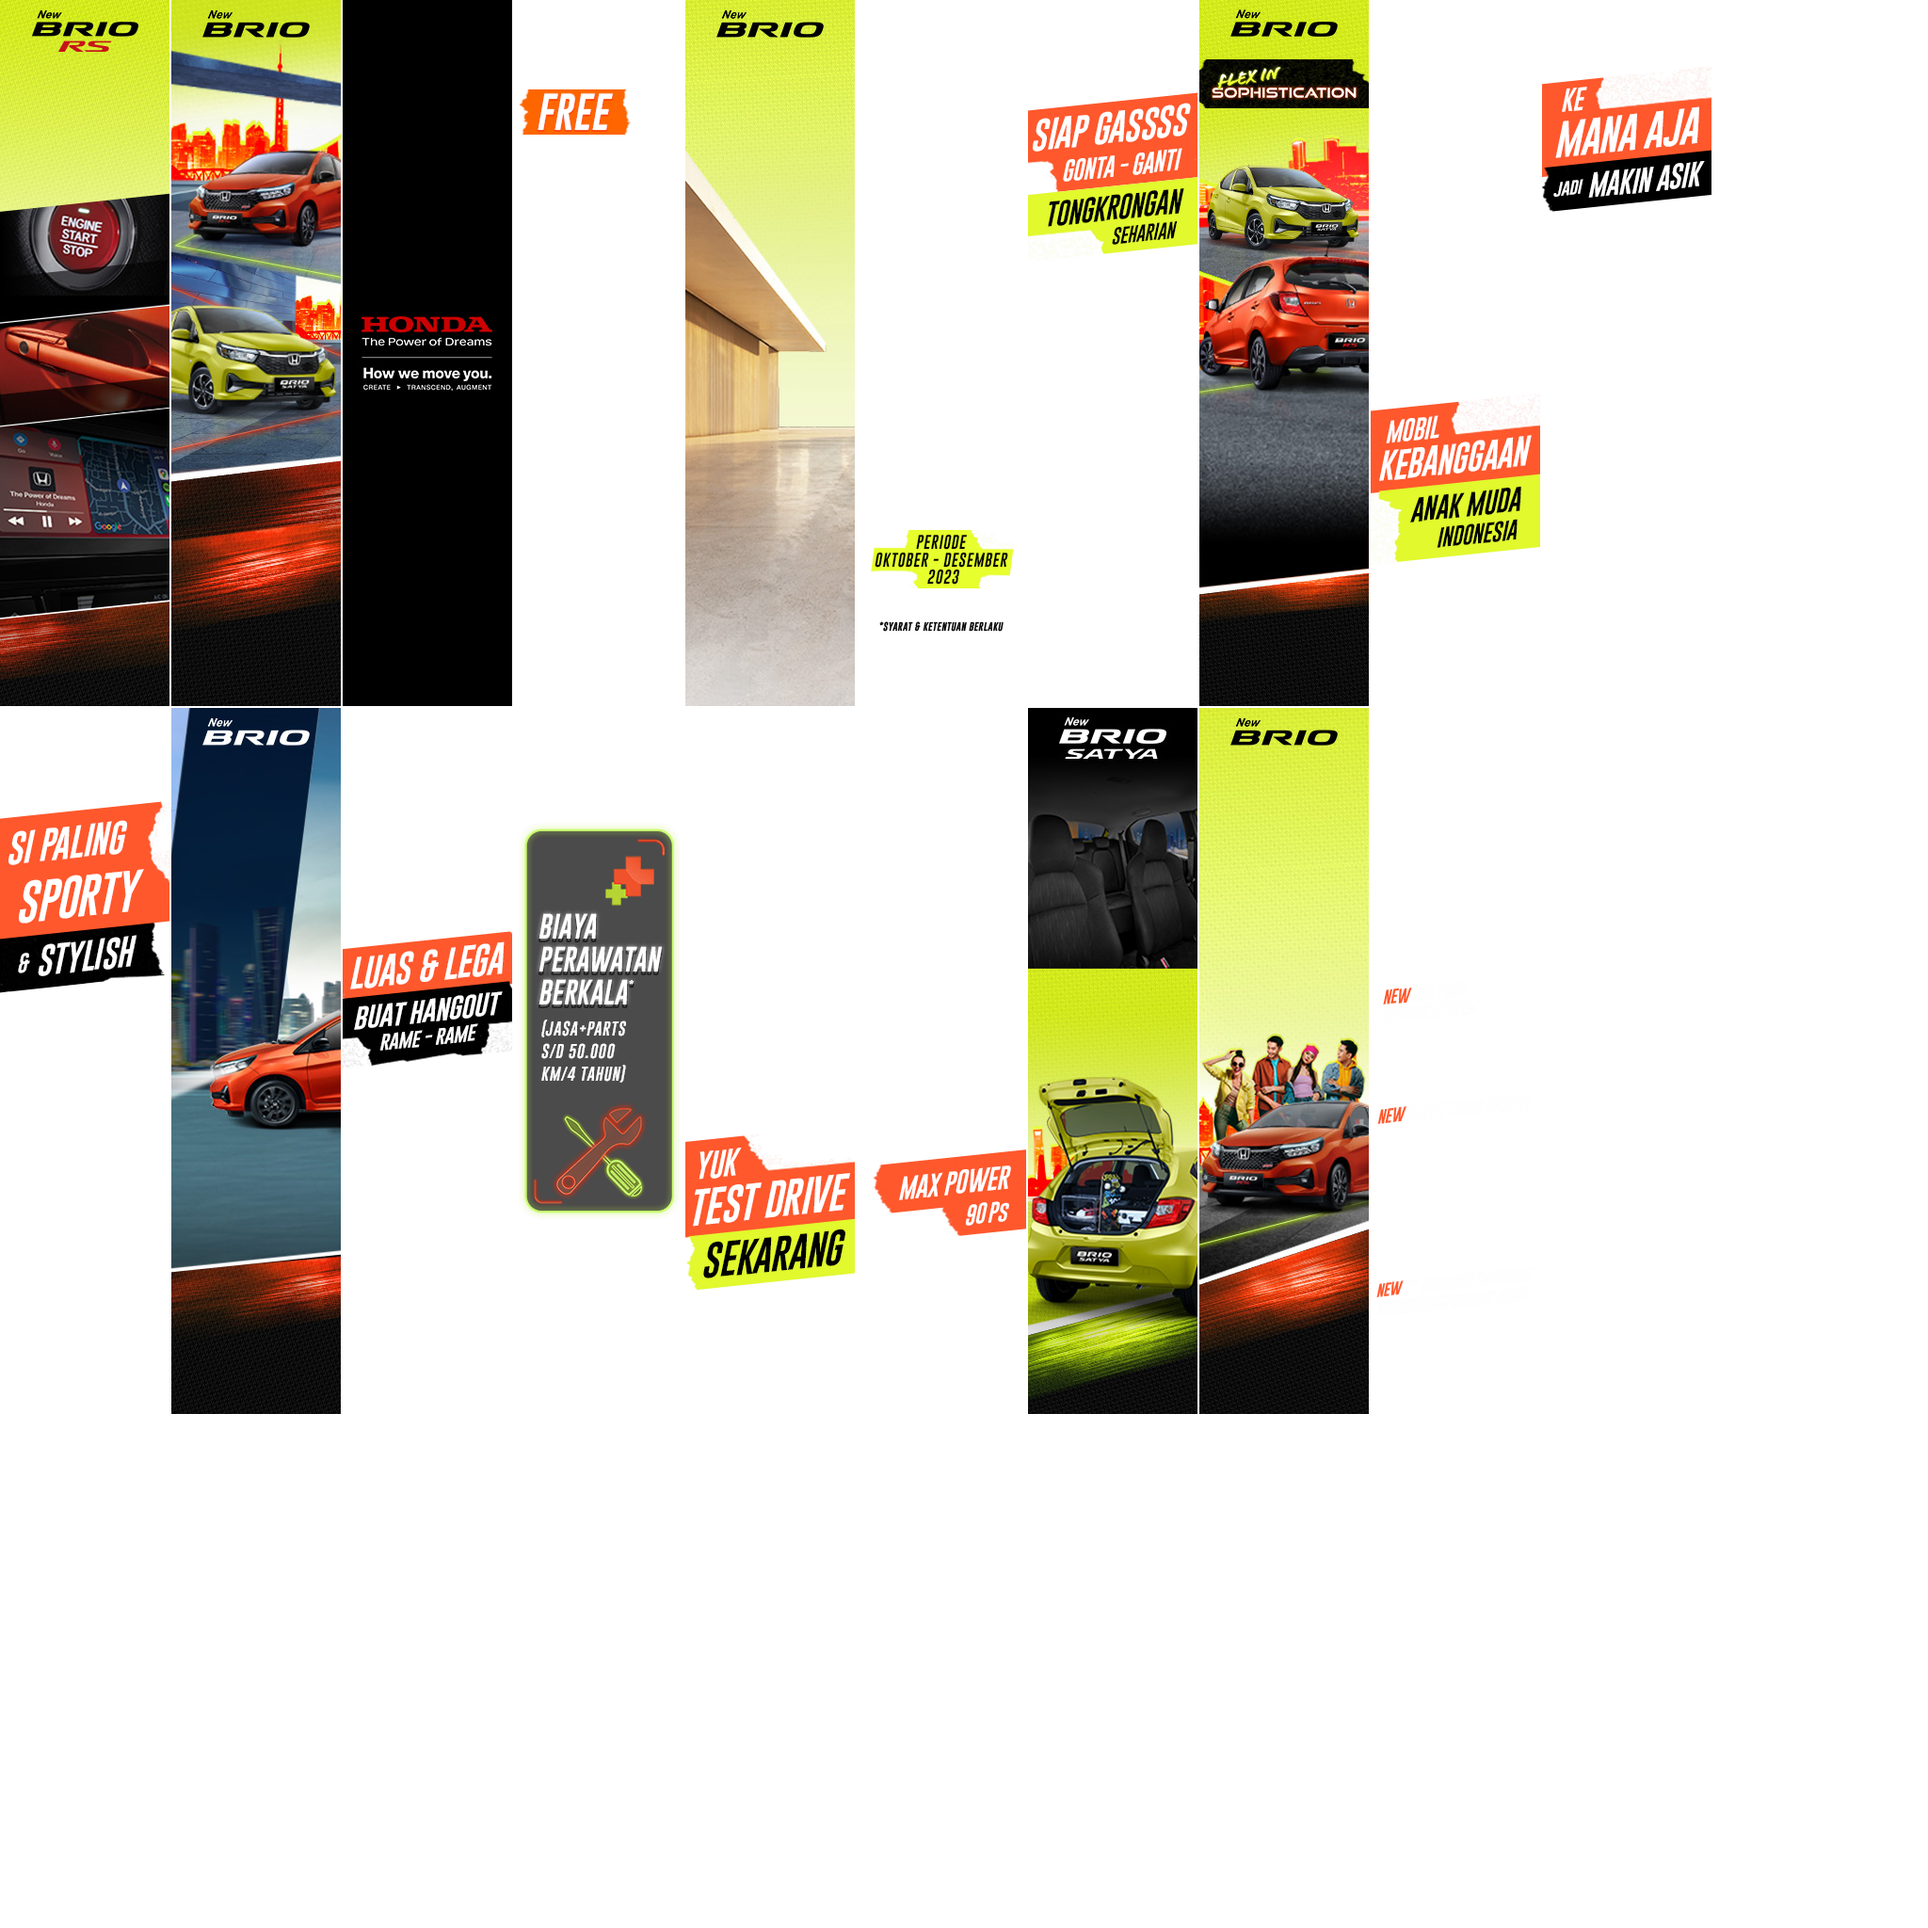
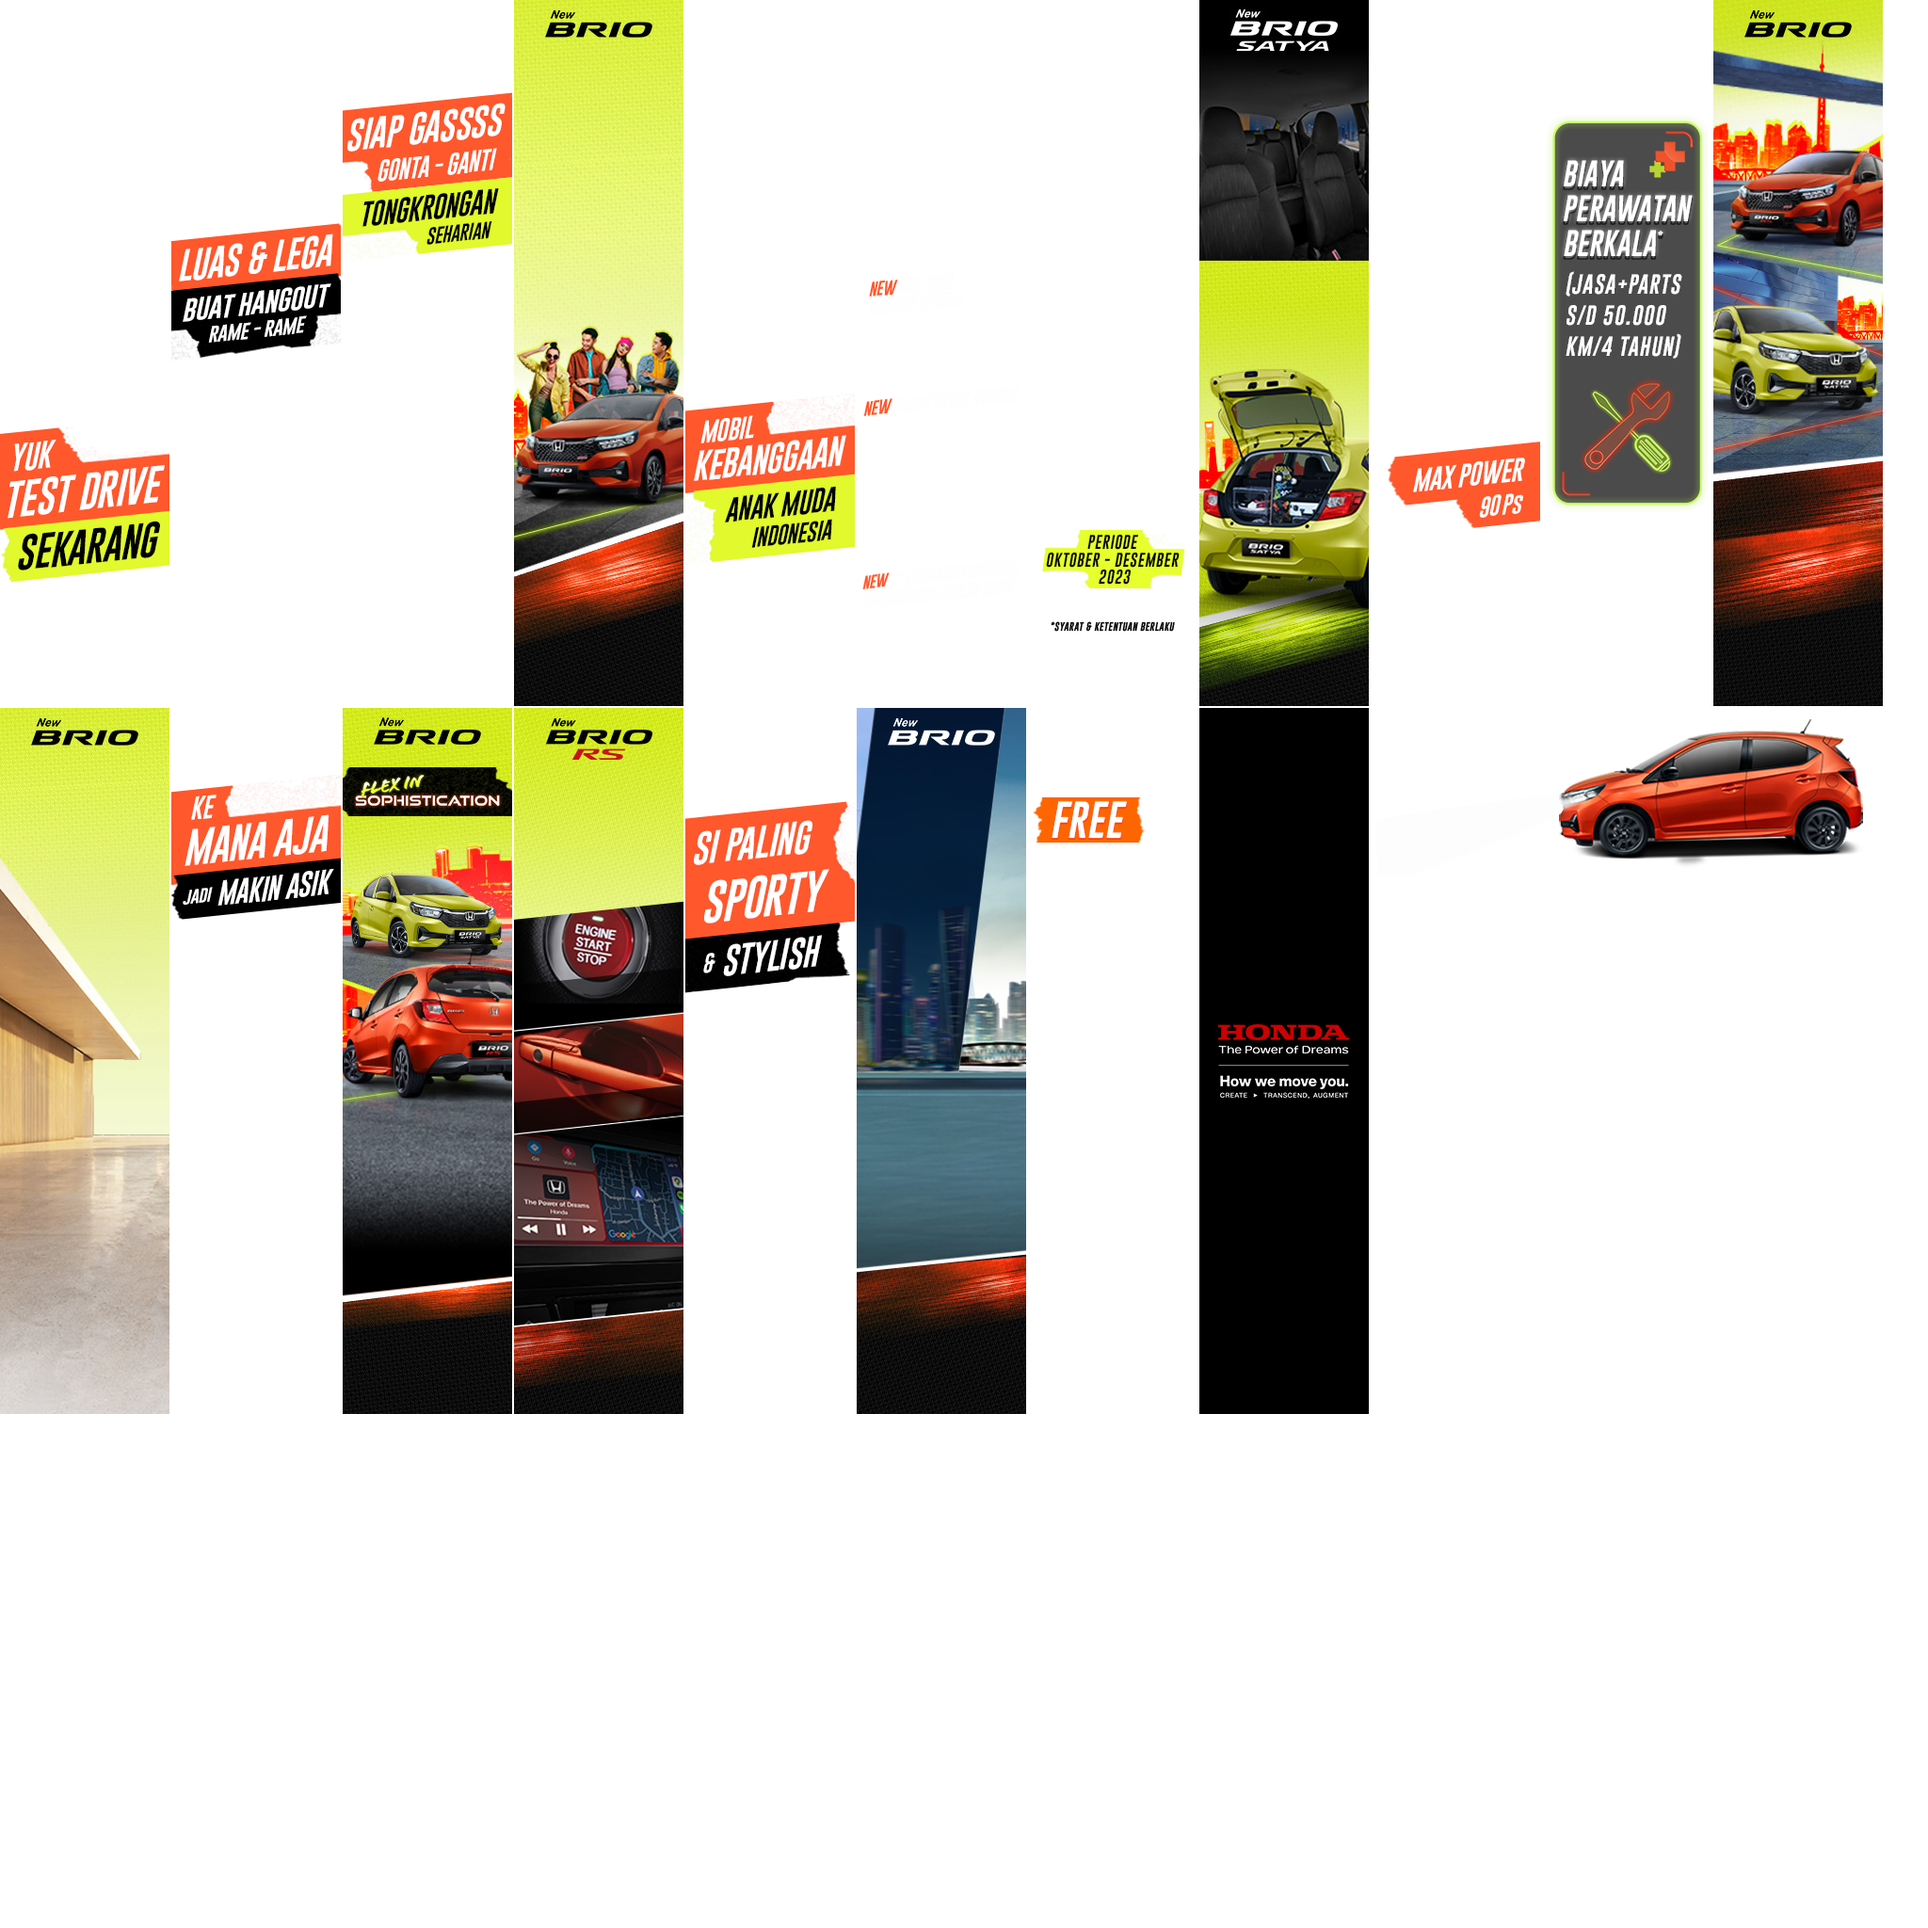
awdawdaw

diff --git a/idntimes/cpc/honda/brio-november/src/120x500/index.js b/idntimes/cpc/honda/brio-november/src/120x500/index.js
@@ -3,7 +3,7 @@
 var p; // shortcut to reference prototypes
 var lib={};var ss={};var img={};
 lib.ssMetadata = [
-		{name:"index_atlas_", frames: [[1274,0,180,750],[1456,0,180,750],[1274,752,180,750],[0,752,180,750],[0,0,180,750],[1456,752,180,750],[1638,0,180,750],[1092,752,180,750],[364,752,180,750],[182,752,180,750],[1092,0,180,750],[910,752,180,750],[728,0,180,750],[546,0,180,750],[546,752,180,750],[910,0,180,750],[182,0,180,750],[728,752,180,750],[364,0,180,750]]}
+		{name:"index_atlas_", frames: [[364,752,180,750],[728,0,180,750],[546,0,180,750],[728,752,180,750],[546,752,180,750],[910,0,180,750],[182,752,180,750],[1274,0,180,750],[182,0,180,750],[910,752,180,750],[364,0,180,750],[1456,0,180,750],[0,752,180,750],[1092,752,180,750],[1638,0,180,750],[1092,0,180,750],[1820,0,180,750],[0,0,180,750],[1274,752,180,750],[1456,752,523,178]]}
 ];
 
 
@@ -142,6 +142,41 @@ lib.ssMetadata = [
 	this.gotoAndStop(18);
 }).prototype = p = new cjs.Sprite();
 
+
+
+(lib.OrangeCar = function() {
+	this.initialize(ss["index_atlas_"]);
+	this.gotoAndStop(19);
+}).prototype = p = new cjs.Sprite();
+
+
+
+(lib.Tween41 = function(mode,startPosition,loop) {
+	this.initialize(mode,startPosition,loop,{});
+
+	// Layer_1
+	this.instance = new lib.OrangeCar();
+	this.instance.parent = this;
+	this.instance.setTransform(-160.85,-54.75,0.6152,0.6152);
+
+	this.timeline.addTween(cjs.Tween.get(this.instance).wait(1));
+
+}).prototype = p = new cjs.MovieClip();
+p.nominalBounds = new cjs.Rectangle(-160.8,-54.7,321.70000000000005,109.5);
+
+
+(lib.Tween40 = function(mode,startPosition,loop) {
+	this.initialize(mode,startPosition,loop,{});
+
+	// Layer_1
+	this.instance = new lib.OrangeCar();
+	this.instance.parent = this;
+	this.instance.setTransform(-160.85,-54.75,0.6152,0.6152);
+
+	this.timeline.addTween(cjs.Tween.get(this.instance).wait(1));
+
+}).prototype = p = new cjs.MovieClip();
+p.nominalBounds = new cjs.Rectangle(-160.8,-54.7,321.70000000000005,109.5);
 
 
 (lib.Tween39 = function(mode,startPosition,loop) {
@@ -905,6 +940,25 @@ p.nominalBounds = new cjs.Rectangle(-160,-240,120,500);
 }).prototype = p = new cjs.MovieClip();
 
 
+(lib.Scene_1_car = function(mode,startPosition,loop) {
+	this.initialize(mode,startPosition,loop,{});
+
+	// car
+	this.instance = new lib.Tween40("synched",0);
+	this.instance.parent = this;
+	this.instance.setTransform(180.15,248.75);
+	this.instance._off = true;
+
+	this.instance_1 = new lib.Tween41("synched",0);
+	this.instance_1.parent = this;
+	this.instance_1.setTransform(-46.3,248.75);
+
+	this.timeline.addTween(cjs.Tween.get({}).to({state:[]}).to({state:[{t:this.instance}]},193).to({state:[{t:this.instance_1}]},52).wait(115));
+	this.timeline.addTween(cjs.Tween.get(this.instance).wait(193).to({_off:false},0).to({_off:true,x:-46.3},52).wait(115));
+
+}).prototype = p = new cjs.MovieClip();
+
+
 (lib.Scene_1_bg_5 = function(mode,startPosition,loop) {
 	this.initialize(mode,startPosition,loop,{});
 
@@ -1183,6 +1237,19 @@ p.nominalBounds = new cjs.Rectangle(-160,-240,120,500);
 
 	this.timeline.addTween(cjs.Tween.get(this.hl_1).wait(207).to({_off:true},39).wait(114));
 
+	// car_obj_
+	this.car = new lib.Scene_1_car();
+	this.car.name = "car";
+	this.car.parent = this;
+	this.car.depth = 0;
+	this.car.isAttachedToCamera = 0
+	this.car.isAttachedToMask = 0
+	this.car.layerDepth = 0
+	this.car.layerIndex = 9
+	this.car.maskLayerName = 0
+
+	this.timeline.addTween(cjs.Tween.get(this.car).wait(360));
+
 	// bg_obj_
 	this.bg_2 = new lib.Scene_1_bg_2();
 	this.bg_2.name = "bg_2";
@@ -1191,7 +1258,7 @@ p.nominalBounds = new cjs.Rectangle(-160,-240,120,500);
 	this.bg_2.isAttachedToCamera = 0
 	this.bg_2.isAttachedToMask = 0
 	this.bg_2.layerDepth = 0
-	this.bg_2.layerIndex = 9
+	this.bg_2.layerIndex = 10
 	this.bg_2.maskLayerName = 0
 
 	this.timeline.addTween(cjs.Tween.get(this.bg_2).wait(196).to({_off:true},50).wait(114));
@@ -1204,7 +1271,7 @@ p.nominalBounds = new cjs.Rectangle(-160,-240,120,500);
 	this.hl_2.isAttachedToCamera = 0
 	this.hl_2.isAttachedToMask = 0
 	this.hl_2.layerDepth = 0
-	this.hl_2.layerIndex = 10
+	this.hl_2.layerIndex = 11
 	this.hl_2.maskLayerName = 0
 
 	this.timeline.addTween(cjs.Tween.get(this.hl_2).wait(158).to({_off:true},42).wait(160));
@@ -1217,7 +1284,7 @@ p.nominalBounds = new cjs.Rectangle(-160,-240,120,500);
 	this.bg_3.isAttachedToCamera = 0
 	this.bg_3.isAttachedToMask = 0
 	this.bg_3.layerDepth = 0
-	this.bg_3.layerIndex = 11
+	this.bg_3.layerIndex = 12
 	this.bg_3.maskLayerName = 0
 
 	this.timeline.addTween(cjs.Tween.get(this.bg_3).wait(148).to({_off:true},52).wait(160));
@@ -1230,7 +1297,7 @@ p.nominalBounds = new cjs.Rectangle(-160,-240,120,500);
 	this.hl_3.isAttachedToCamera = 0
 	this.hl_3.isAttachedToMask = 0
 	this.hl_3.layerDepth = 0
-	this.hl_3.layerIndex = 12
+	this.hl_3.layerIndex = 13
 	this.hl_3.maskLayerName = 0
 
 	this.timeline.addTween(cjs.Tween.get(this.hl_3).wait(112).to({_off:true},38).wait(210));
@@ -1243,7 +1310,7 @@ p.nominalBounds = new cjs.Rectangle(-160,-240,120,500);
 	this.fiturtext.isAttachedToCamera = 0
 	this.fiturtext.isAttachedToMask = 0
 	this.fiturtext.layerDepth = 0
-	this.fiturtext.layerIndex = 13
+	this.fiturtext.layerIndex = 14
 	this.fiturtext.maskLayerName = 0
 
 	this.timeline.addTween(cjs.Tween.get(this.fiturtext).wait(109).to({_off:true},41).wait(210));
@@ -1256,7 +1323,7 @@ p.nominalBounds = new cjs.Rectangle(-160,-240,120,500);
 	this.bg_4.isAttachedToCamera = 0
 	this.bg_4.isAttachedToMask = 0
 	this.bg_4.layerDepth = 0
-	this.bg_4.layerIndex = 14
+	this.bg_4.layerIndex = 15
 	this.bg_4.maskLayerName = 0
 
 	this.timeline.addTween(cjs.Tween.get(this.bg_4).wait(99).to({_off:true},51).wait(210));
@@ -1269,7 +1336,7 @@ p.nominalBounds = new cjs.Rectangle(-160,-240,120,500);
 	this.hl_4.isAttachedToCamera = 0
 	this.hl_4.isAttachedToMask = 0
 	this.hl_4.layerDepth = 0
-	this.hl_4.layerIndex = 15
+	this.hl_4.layerIndex = 16
 	this.hl_4.maskLayerName = 0
 
 	this.timeline.addTween(cjs.Tween.get(this.hl_4).wait(63).to({_off:true},38).wait(259));
@@ -1282,7 +1349,7 @@ p.nominalBounds = new cjs.Rectangle(-160,-240,120,500);
 	this.bg_5.isAttachedToCamera = 0
 	this.bg_5.isAttachedToMask = 0
 	this.bg_5.layerDepth = 0
-	this.bg_5.layerIndex = 16
+	this.bg_5.layerIndex = 17
 	this.bg_5.maskLayerName = 0
 
 	this.timeline.addTween(cjs.Tween.get(this.bg_5).wait(52).to({_off:true},49).wait(259));
@@ -1295,7 +1362,7 @@ p.nominalBounds = new cjs.Rectangle(-160,-240,120,500);
 	this.hl_5.isAttachedToCamera = 0
 	this.hl_5.isAttachedToMask = 0
 	this.hl_5.layerDepth = 0
-	this.hl_5.layerIndex = 17
+	this.hl_5.layerIndex = 18
 	this.hl_5.maskLayerName = 0
 
 	this.timeline.addTween(cjs.Tween.get(this.hl_5).wait(16).to({_off:true},39).wait(305));
@@ -1309,13 +1376,13 @@ p.nominalBounds = new cjs.Rectangle(-160,-240,120,500);
 	this.bg_6.isAttachedToCamera = 0
 	this.bg_6.isAttachedToMask = 0
 	this.bg_6.layerDepth = 0
-	this.bg_6.layerIndex = 18
+	this.bg_6.layerIndex = 19
 	this.bg_6.maskLayerName = 0
 
 	this.timeline.addTween(cjs.Tween.get(this.bg_6).wait(47).to({_off:true},8).wait(305));
 
 }).prototype = p = new cjs.MovieClip();
-p.nominalBounds = new cjs.Rectangle(-60,-12.8,345.1,795.9);
+p.nominalBounds = new cjs.Rectangle(-147.1,-12.8,488.20000000000005,795.9);
 // library properties:
 lib.properties = {
 	id: 'E4DB16B475640F41B3B0933041D4AE09',

diff --git a/idntimes/cpc/honda/brio-november/src/728x90/index.js b/idntimes/cpc/honda/brio-november/src/728x90/index.js
@@ -3,8 +3,8 @@
 var p; // shortcut to reference prototypes
 var lib={};var ss={};var img={};
 lib.ssMetadata = [
-		{name:"index_atlas_", frames: [[0,1644,1092,135],[0,1507,1092,135],[0,1781,1092,135],[0,685,1092,135],[0,822,1092,135],[0,959,1092,135],[0,1096,1092,135],[0,548,1092,135],[0,1233,1092,135],[0,1370,1092,135],[0,137,1092,135],[0,0,1092,135],[0,274,1092,135],[0,411,1092,135]]},
-		{name:"index_atlas_2", frames: [[0,0,1092,135],[0,137,1092,135],[0,274,1092,135],[0,411,1092,135],[0,548,1092,135],[0,685,1092,135],[0,822,1092,135]]}
+		{name:"index_atlas_", frames: [[0,1096,1092,135],[0,1233,1092,135],[0,1370,1092,135],[0,1781,1092,135],[0,1507,1092,135],[0,1644,1092,135],[0,959,1092,135],[0,685,1092,135],[0,274,1092,135],[0,548,1092,135],[0,411,1092,135],[0,137,1092,135],[0,822,1092,135],[0,0,1092,135]]},
+		{name:"index_atlas_2", frames: [[0,685,1092,135],[0,137,1092,135],[0,274,1092,135],[0,0,1092,135],[0,411,1092,135],[0,548,1092,135],[0,822,1092,135]]}
 ];
 
 
@@ -27,15 +27,15 @@ lib.ssMetadata = [
 
 
 (lib._1tagline = function() {
-	this.initialize(ss["index_atlas_"]);
-	this.gotoAndStop(2);
+	this.initialize(ss["index_atlas_2"]);
+	this.gotoAndStop(0);
 }).prototype = p = new cjs.Sprite();
 
 
 
 (lib._1text = function() {
-	this.initialize(ss["index_atlas_2"]);
-	this.gotoAndStop(0);
+	this.initialize(ss["index_atlas_"]);
+	this.gotoAndStop(2);
 }).prototype = p = new cjs.Sprite();
 
 
@@ -69,85 +69,85 @@ lib.ssMetadata = [
 
 
 (lib._3text = function() {
-	this.initialize(ss["index_atlas_"]);
-	this.gotoAndStop(5);
-}).prototype = p = new cjs.Sprite();
-
-
-
-(lib._4bg = function() {
-	this.initialize(ss["index_atlas_"]);
-	this.gotoAndStop(6);
-}).prototype = p = new cjs.Sprite();
-
-
-
-(lib._4text = function() {
-	this.initialize(ss["index_atlas_"]);
-	this.gotoAndStop(7);
-}).prototype = p = new cjs.Sprite();
-
-
-
-(lib._5bg = function() {
-	this.initialize(ss["index_atlas_"]);
-	this.gotoAndStop(8);
-}).prototype = p = new cjs.Sprite();
-
-
-
-(lib._5text = function() {
-	this.initialize(ss["index_atlas_"]);
-	this.gotoAndStop(9);
-}).prototype = p = new cjs.Sprite();
-
-
-
-(lib._5text2 = function() {
-	this.initialize(ss["index_atlas_"]);
-	this.gotoAndStop(10);
-}).prototype = p = new cjs.Sprite();
-
-
-
-(lib._6bg = function() {
-	this.initialize(ss["index_atlas_"]);
-	this.gotoAndStop(11);
-}).prototype = p = new cjs.Sprite();
-
-
-
-(lib._6free = function() {
-	this.initialize(ss["index_atlas_"]);
-	this.gotoAndStop(12);
-}).prototype = p = new cjs.Sprite();
-
-
-
-(lib._6image = function() {
 	this.initialize(ss["index_atlas_2"]);
 	this.gotoAndStop(3);
 }).prototype = p = new cjs.Sprite();
 
 
 
-(lib._6periode = function() {
+(lib._4bg = function() {
+	this.initialize(ss["index_atlas_"]);
+	this.gotoAndStop(5);
+}).prototype = p = new cjs.Sprite();
+
+
+
+(lib._4text = function() {
 	this.initialize(ss["index_atlas_2"]);
 	this.gotoAndStop(4);
 }).prototype = p = new cjs.Sprite();
 
 
 
-(lib._7bg = function() {
+(lib._5bg = function() {
 	this.initialize(ss["index_atlas_2"]);
 	this.gotoAndStop(5);
 }).prototype = p = new cjs.Sprite();
 
 
 
-(lib._7text = function() {
+(lib._5text = function() {
+	this.initialize(ss["index_atlas_"]);
+	this.gotoAndStop(6);
+}).prototype = p = new cjs.Sprite();
+
+
+
+(lib._5text2 = function() {
 	this.initialize(ss["index_atlas_2"]);
 	this.gotoAndStop(6);
+}).prototype = p = new cjs.Sprite();
+
+
+
+(lib._6bg = function() {
+	this.initialize(ss["index_atlas_"]);
+	this.gotoAndStop(7);
+}).prototype = p = new cjs.Sprite();
+
+
+
+(lib._6free = function() {
+	this.initialize(ss["index_atlas_"]);
+	this.gotoAndStop(8);
+}).prototype = p = new cjs.Sprite();
+
+
+
+(lib._6image = function() {
+	this.initialize(ss["index_atlas_"]);
+	this.gotoAndStop(9);
+}).prototype = p = new cjs.Sprite();
+
+
+
+(lib._6periode = function() {
+	this.initialize(ss["index_atlas_"]);
+	this.gotoAndStop(10);
+}).prototype = p = new cjs.Sprite();
+
+
+
+(lib._7bg = function() {
+	this.initialize(ss["index_atlas_"]);
+	this.gotoAndStop(11);
+}).prototype = p = new cjs.Sprite();
+
+
+
+(lib._7text = function() {
+	this.initialize(ss["index_atlas_"]);
+	this.gotoAndStop(12);
 }).prototype = p = new cjs.Sprite();
 
 
